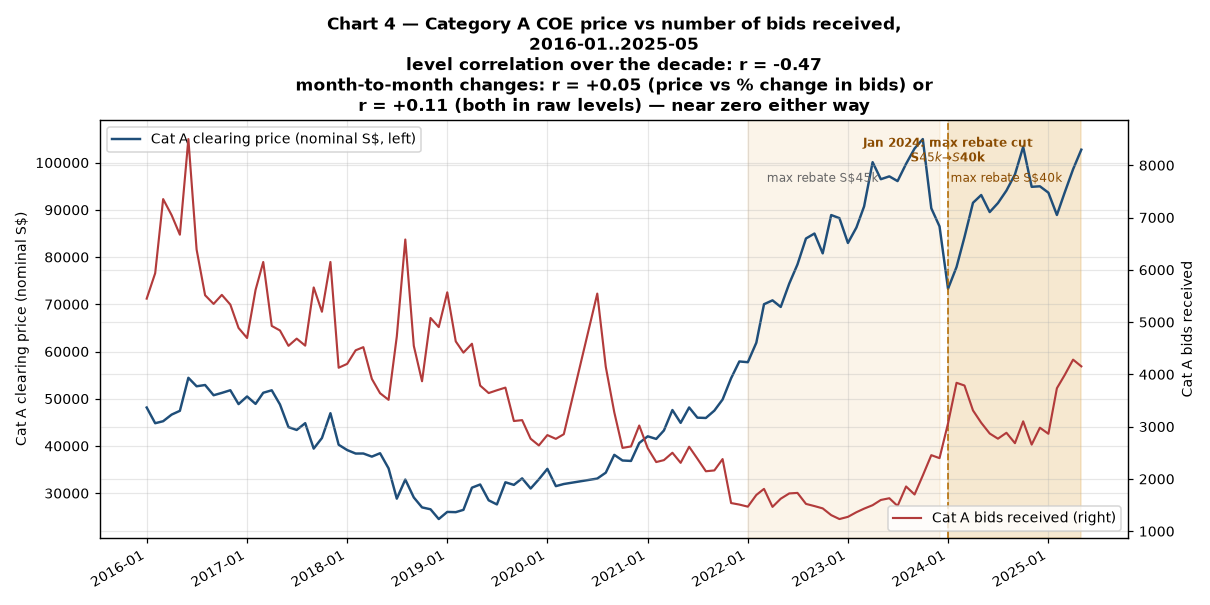
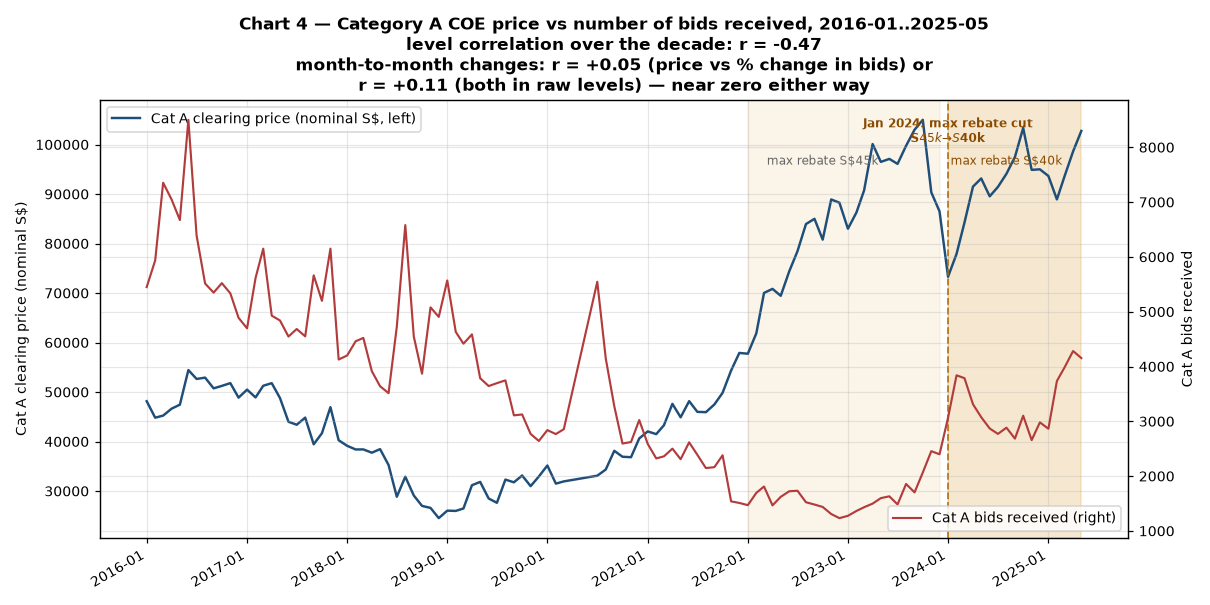
Chart 4: join the first title line back so the comma isn't trailing
The date ('2016-01..2025-05') was on its own line, leaving the first line
ending in a trailing comma. Re-joining them: '...bids received,
2016-01..2025-05' (750px, fits with 460px margin; 0 clip risks).

diff --git a/src/13_charts.py b/src/13_charts.py
@@ -328,8 +328,7 @@ def chart04() -> None:
              label="Cat A clearing price (nominal S$, left)")
     ax1.set_ylabel("Cat A clearing price (nominal S$)")
     ax1.set_title(
-        "Chart 4 — Category A COE price vs number of bids received,\n"
-        "2016-01..2025-05\n"
+        "Chart 4 — Category A COE price vs number of bids received, 2016-01..2025-05\n"
         f"level correlation over the decade: r = {r_level:+.2f}\n"
         f"month-to-month changes: r = {r_mom:+.2f} (price vs % change in bids) or\n"
         f"r = {r_mom_raw:+.2f} (both in raw levels) — near zero either way",
